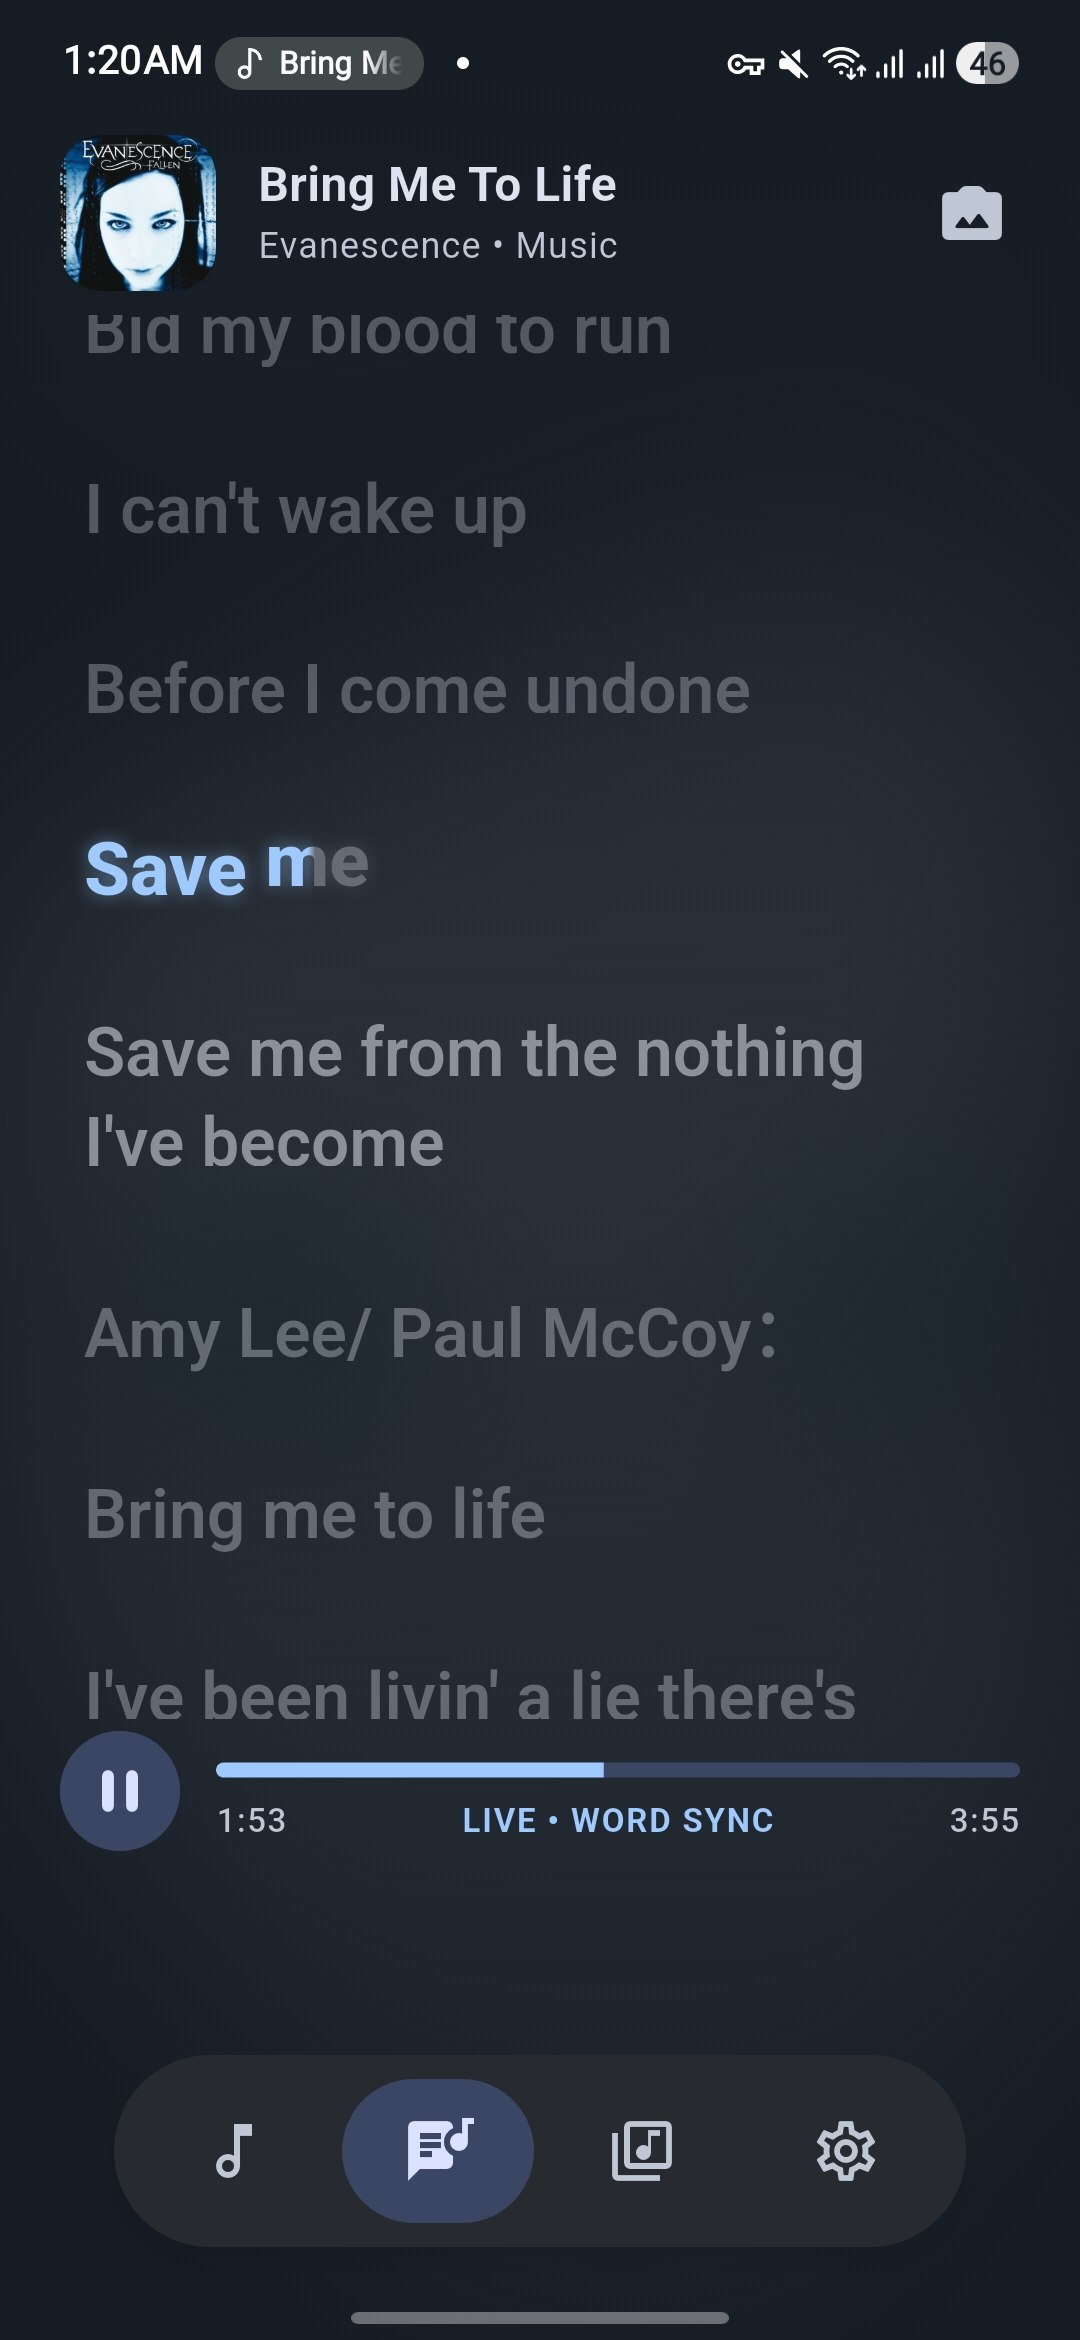
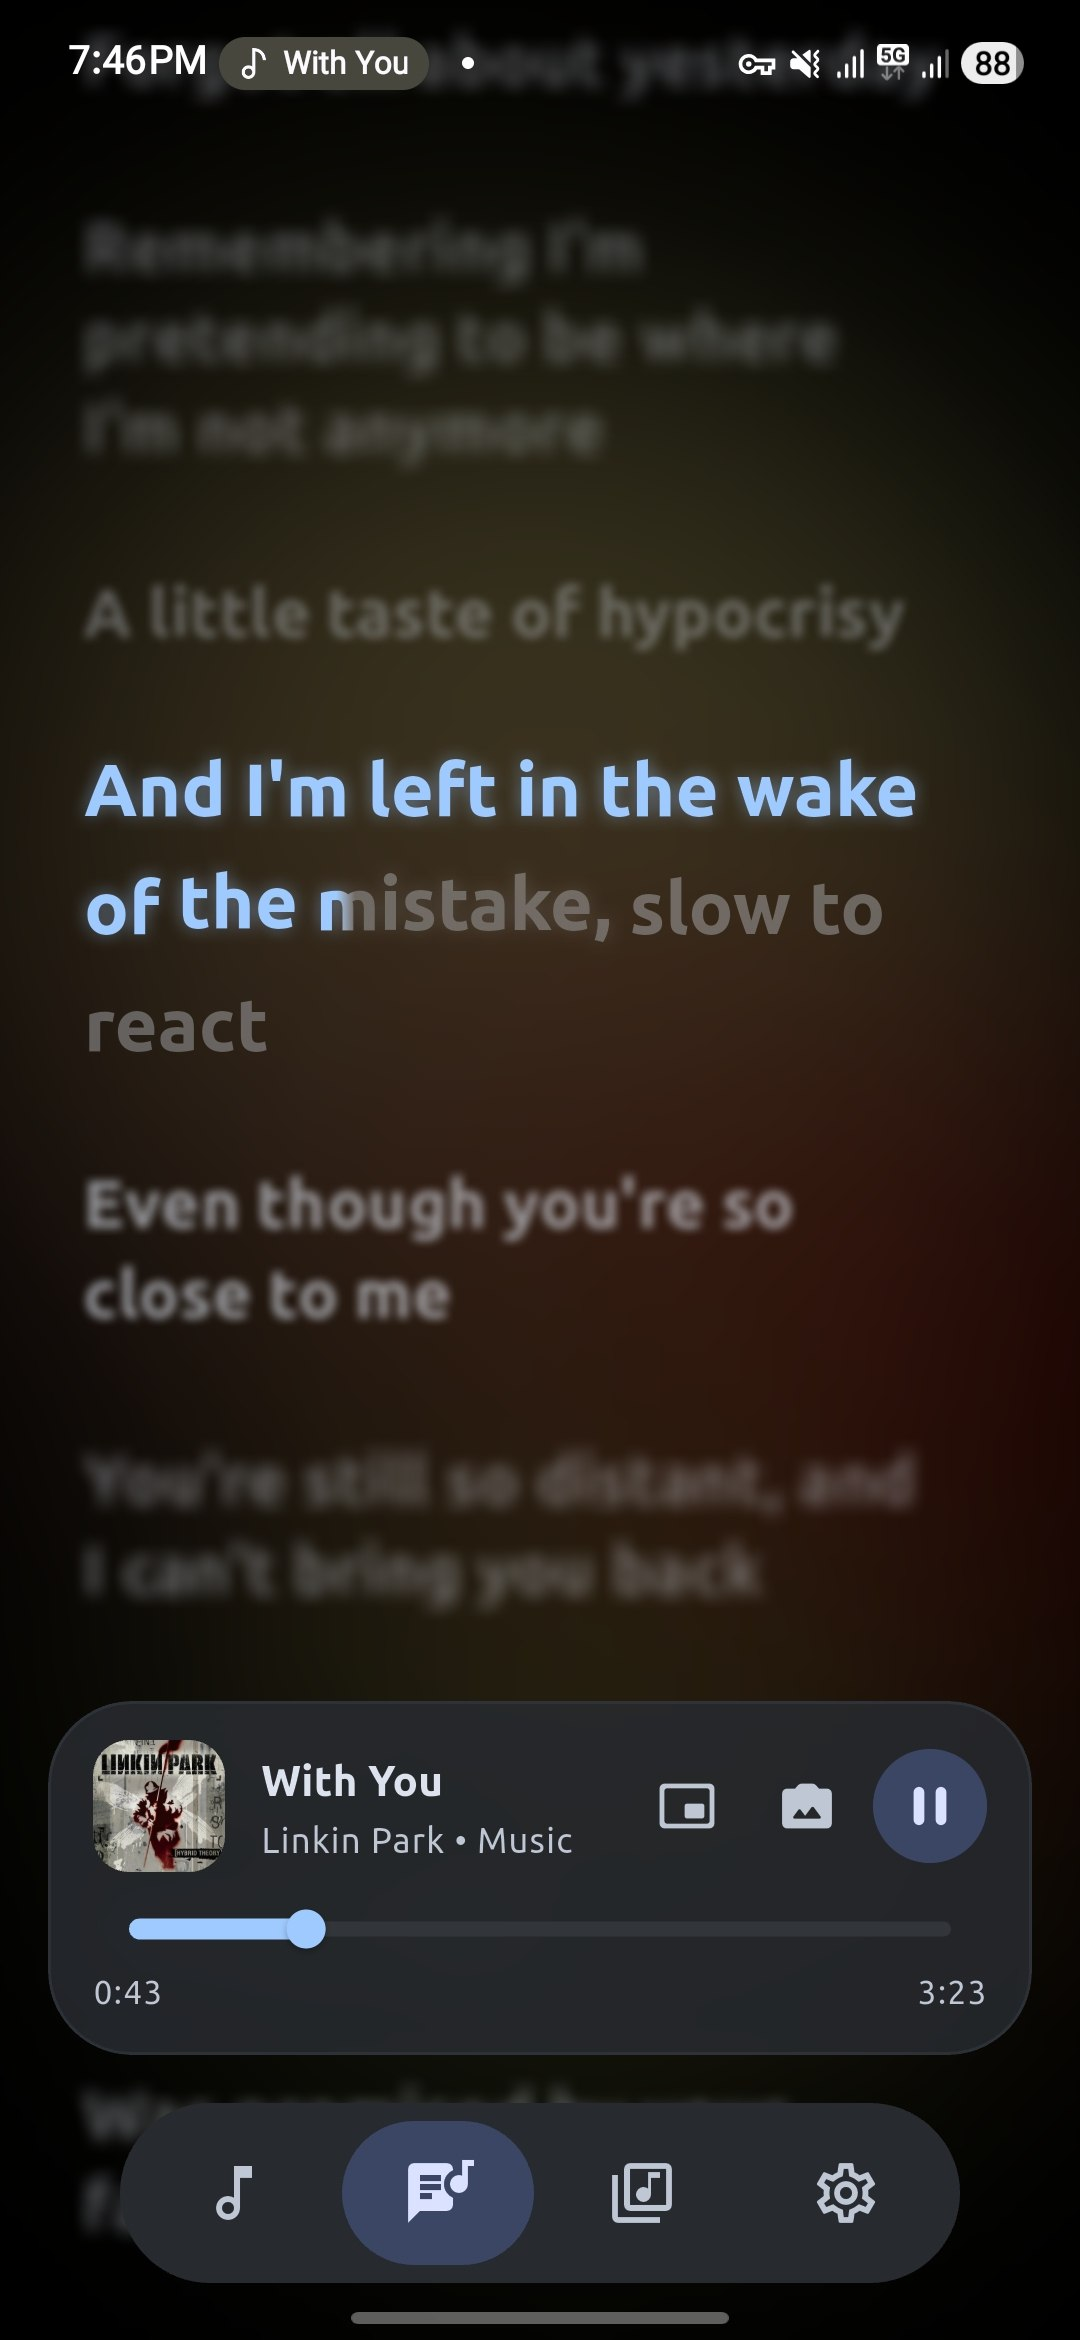
update screenshots and md

diff --git a/README.md b/README.md
@@ -6,7 +6,7 @@
 
 [![Flutter](https://img.shields.io/badge/Flutter-3.x-02569B?logo=flutter&logoColor=white)](https://flutter.dev)
 [![Platform](https://img.shields.io/badge/Platform-Android-3DDC84?logo=android&logoColor=white)](https://www.android.com)
-[![Material You](https://img.shields.io/badge/Design-Material%20You%20(M3)-6750A4)](https://m3.material.io)
+[![Material You](<https://img.shields.io/badge/Design-Material%20You%20(M3)-6750A4>)](https://m3.material.io)
 [![License: MIT](https://img.shields.io/badge/License-MIT-yellow.svg)](LICENSE)
 
 </div>
@@ -23,10 +23,44 @@ It listens to the active Android `MediaSession` in real time, resolves local aud
 
 ## 📸 Screenshots
 
-| Now Playing | Local Library | Batch Downloader | Live Lyrics | Lyrics Card | Settings & Material You |
-| :---: | :---: | :---: | :---: | :---: | :---: |
-| ![Now Playing](assets/screenshots/now_playing.jpg) | ![Local Library](assets/screenshots/local_library.jpg) | ![Batch Downloader](assets/screenshots/batch_download.jpg) | ![Live Lyrics](assets/screenshots/lyrics.jpg) | ![Lyrics Carf](assets/screenshots/lyrics_card.jpg) | ![Settings](assets/screenshots/settings.jpg) |
-
+<div align="center">
+  <table>
+    <tr>
+      <td align="center" width="33%">
+        <strong>Now Playing</strong><br>
+        <img src="assets/screenshots/now_playing.jpg" width="250">
+      </td>
+      <td align="center" width="33%">
+        <strong>Local Library</strong><br>
+        <img src="assets/screenshots/local_library.jpg" width="250">
+      </td>
+      <td align="center" width="33%">
+        <strong>Batch Downloader</strong><br>
+        <img src="assets/screenshots/batch_download.jpg" width="250">
+      </td>
+    </tr>
+    <tr>
+      <td align="center">
+        <strong>Live Lyrics</strong><br>
+        <img src="assets/screenshots/lyrics.jpg" width="250">
+      </td>
+      <td align="center">
+        <strong>Lyrics Card</strong><br>
+        <img src="assets/screenshots/lyrics_card.jpg" width="250">
+      </td>
+      <td align="center">
+        <strong>Floating Window</strong><br>
+        <img src="assets/screenshots/floating_window.jpg" width="250">
+      </td>
+    </tr>
+    <tr>
+      <td align="center">
+        <strong>Settings & Material You</strong><br>
+        <img src="assets/screenshots/settings.jpg" width="250">
+      </td>
+    </tr>
+  </table>
+</div>
 ---
 
 ## 🚀 Features
@@ -52,6 +86,7 @@ It listens to the active Android `MediaSession` in real time, resolves local aud
   - Supports **[LRCMux](https://lrcmux.dev)** (default), **[LRCLIB](https://lrclib.net)**, and **[LRC.red](https://lrc.red)**. Drag to reorder provider priority in Settings or toggle individual sources to cascade automatically until a match is found.
 - **🎨 Material You (Material 3) & AMOLED Dark Mode**
   - Supports Android 12+ dynamic wallpaper colors, custom Material seed palettes, light/dark/system modes, and a pitch-black AMOLED mode.
+
 ---
 
 ## 🏗 Architecture
@@ -71,7 +106,9 @@ lib/
 │   └── settings/       # Theme customizer, reorderable provider list, cache & permissions
 └── main_shell.dart     # Root navigation shell
 ```
+
 ## 🔐 Required Android Permissions
+
 Because LRCSync detects active music from other apps and writes .lrc files directly into your music folders without prompting the system file picker each time, it requests three permissions on first launch:
 
 - ### Notification Listener Access (`BIND_NOTIFICATION_LISTENER_SERVICE`)
@@ -87,6 +124,7 @@ Required to query MediaStore.Audio and match the playing song to its local file 
 Required on Android 11+ to silently write non-media .lrc files directly into shared music directories alongside your audio files.
 
 ## 🛠 Getting Started
+
 **Prerequisites**
 
 - Flutter SDK >=3.24.0
@@ -94,12 +132,14 @@ Required on Android 11+ to silently write non-media .lrc files directly into sha
 - Android Studio / Android SDK (API 26+)
 
 **Installation & Build**
+
 1. Clone the repository
 
 ```Bash
 git clone https://github.com/mohsenemx/lrcsync.git
 cd lrcsync
 ```
+
 2. Install dependencies
 
 ```Bash
@@ -111,12 +151,14 @@ flutter pub get
 ```Bash
 flutter run
 ```
+
 4. Configure Android release signing
-To build a signed release APK, you need an Android keystore and a key.properties file.
+   To build a signed release APK, you need an Android keystore and a key.properties file.
 
 Follow the official [Flutter guide to creating a keystore and configuring Android app signing](https://docs.flutter.dev/deployment/android#sign-the-app).
 
 Create `android/key.properties` with your signing information:
+
 ```properties
 storePassword=YOUR_KEYSTORE_PASSWORD
 keyPassword=YOUR_KEY_PASSWORD
@@ -126,7 +168,7 @@ storeFile=/absolute/path/to/lrcsync-release.jks
 
 Replace the placeholder values with your own credentials and the path to your keystore. The keyAlias must match the alias you used when creating the keystore.
 
-**Important**: Keep your keystore and `android/key.properties` private. Never commit them to version control. 
+**Important**: Keep your keystore and `android/key.properties` private. Never commit them to version control.
 This repository's .gitignore excludes both.
 
 5. Build release APK
@@ -142,6 +184,7 @@ flutter build apk --release --split-per-abi
 ```
 
 ## 🤝 Acknowledgements
+
 - [LRCLIB](https://lrclib.net/) for providing a free, open-source crowdsourced synced lyrics API.
 
 - [LRC.red](https://lrc.red) for providing ISRC-matched time-synced .lrc files.
@@ -149,4 +192,5 @@ flutter build apk --release --split-per-abi
 - [LRCMux](https://lrcmux.dev/) for providing best available match across multiple sources.
 
 ## 📄 License
+
 This project is licensed under the MIT License — see the `LICENSE` file for details.
